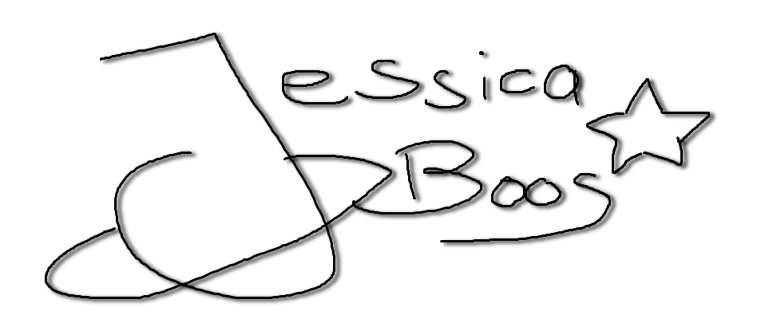
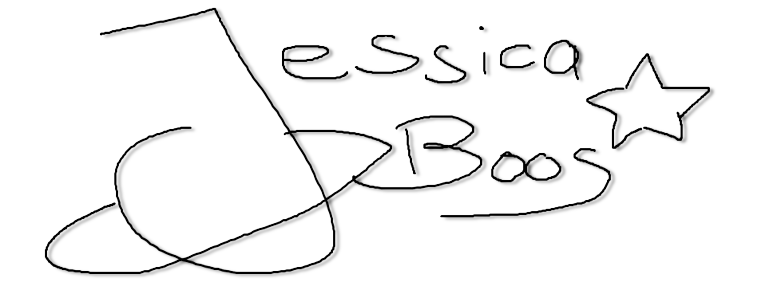
implemented basic search engine

Changed region(s): [[0.0307, 0.0306, 0.9219, 0.9796], [0.6146, 0.0918, 0.6453, 0.1224]]

diff --git a/src/Dictionary.js b/src/Dictionary.js
@@ -1,0 +1,25 @@
+import React, { useState } from "react";
+import "./Dictionary.css";
+
+export default function Dictioanary() {
+  let [keyword, setKeyword] = useState(null);
+  function search(event) {
+    event.preventDefault();
+    alert(`Searching for ${keyword}`);
+  }
+  function handleKeywordChange(event) {
+    setKeyword(event.target.value);
+  }
+  return (
+    <div className="Dictionary">
+      <form onSubmit={search}>
+        <input
+          type="Search"
+          autoFocus={true}
+          placeholder="Search for a word..."
+          onChange={handleKeywordChange}
+        ></input>
+      </form>
+    </div>
+  );
+}

diff --git a/src/App.js b/src/App.js
@@ -1,5 +1,6 @@
-import signature from "./signature.png";
+import signature from "./signature2.png";
 import "./App.css";
+import Dictioanary from "./Dictionary.js";
 
 export default function App() {
   return (
@@ -12,6 +13,12 @@ export default function App() {
         />
         <span className="App-header-text">Dictionary App</span>
       </header>
+      <main>
+        <Dictioanary />
+      </main>
+      <footer className="text-center">
+        This Project was coded by Jessica Boos.
+      </footer>
     </div>
   );
 }

diff --git a/src/App.css b/src/App.css
@@ -1,8 +1,23 @@
-.App {
-  background-color: #272044;
+body {
+  background-color: #b4b4b4;
   color: black;
+}
+header {
+  background-color: #212121;
+  margin: 10px;
+  padding: 5px;
+  color: #b4b4b4;
+}
+footer {
+  font-size: small;
+  margin-top: 15px;
 }
 
 .App-signature {
-  max-width: 400px;
+  max-width: 200px;
+}
+
+.App-header-text {
+  font-size: 30px;
+  margin-left: 15px;
 }

diff --git a/src/Dictionary.css b/src/Dictionary.css
@@ -1,0 +1,3 @@
+.Dictionary {
+  background-color: #676767;
+}
